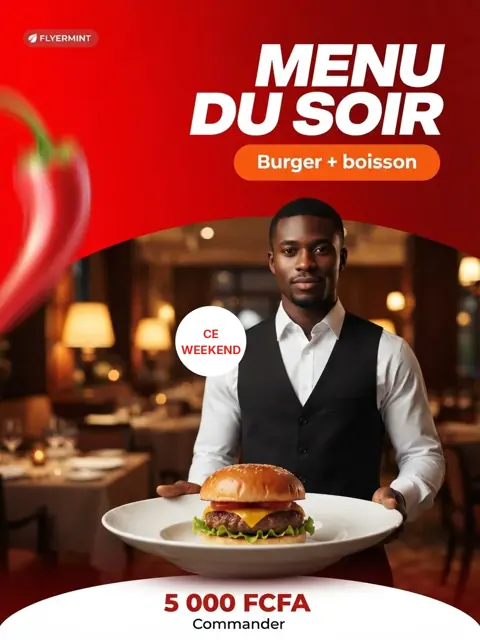
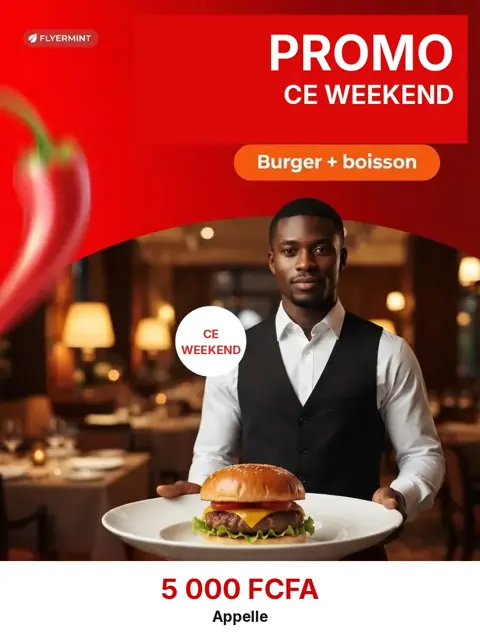
fix: make the Après poster a weekend promo, not a menu
Match the landing brief: Promo ce weekend, burger + boisson, 5 000 FCFA, Appelle. Keep the waiter, plate and chili. No extra Rodium generation.

Changed region(s): [[0.375, 0.0, 1.0, 0.25], [0.0, 0.875, 1.0, 1.0], [0.375, 0.5312, 0.4062, 0.5625]]

diff --git a/src/lib/landing-posters.ts b/src/lib/landing-posters.ts
@@ -32,10 +32,10 @@ export const HERO_POSTER_IDS = [
 
 export const PINNED_BURGER_POSTER = {
   id: AFTER_POSTER_ID,
-  title: "MENU DU SOIR",
+  title: "PROMO CE WEEKEND",
   subtitle: "Burger + boisson",
   meta: "5 000 FCFA",
-  cta: "Commander",
+  cta: "Appelle",
   imageSrc: "/creations/restauration-burger.webp",
   domaine: "Restauration",
   domainKey: "Restauration" as const,
